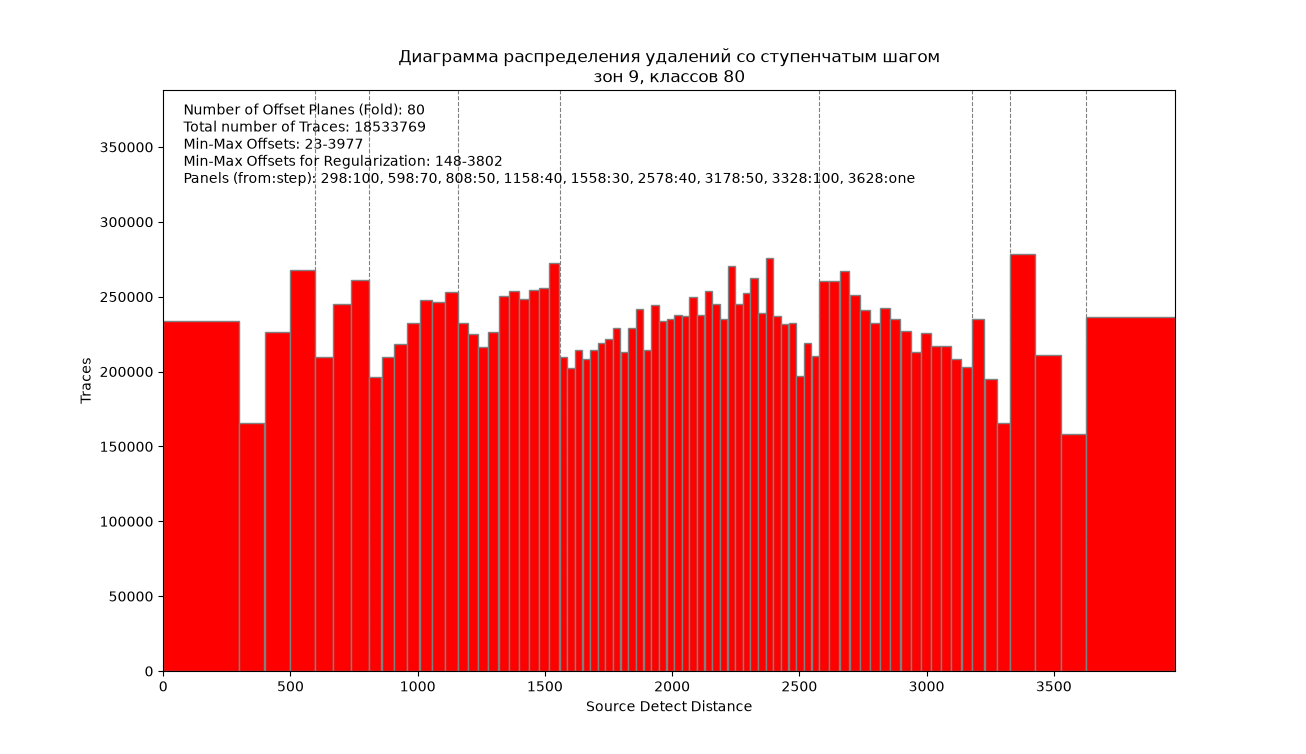
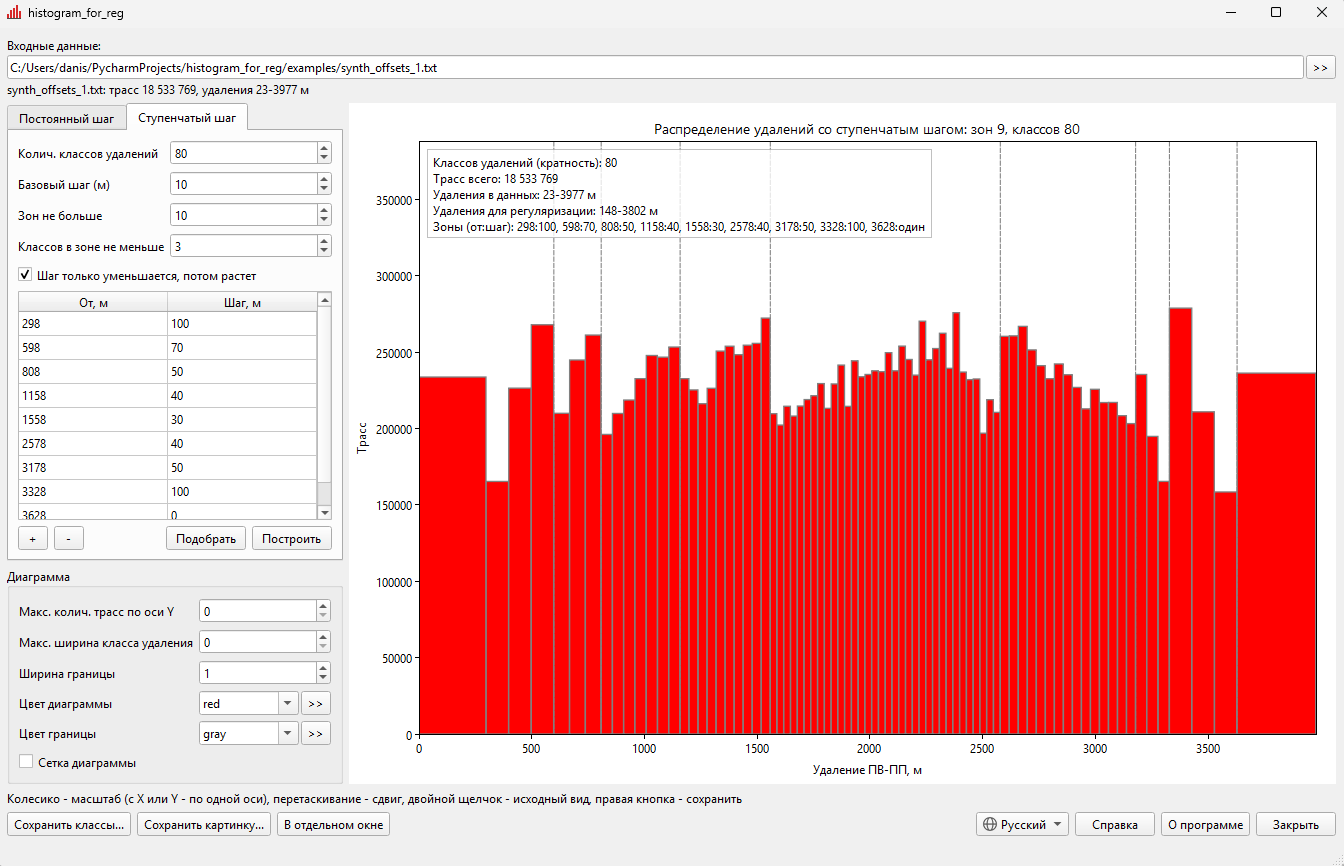
histogram_for_reg 1.8.0: новое окно, снимки, версия и история

diff --git a/docs/histogram_for_reg.en.md b/docs/histogram_for_reg.en.md
@@ -6,7 +6,7 @@ The utility builds an offset distribution histogram and is meant for planning 3D
 regularization of seismic data.
 
 The program splits offsets into classes, shows them as a histogram and saves a
-table of classes next to the input file. The table can be used as input for 3D
+table of classes. The table can be used as input for 3D
 regularization.
 
 Offset classes are built in one of two ways:
@@ -31,7 +31,7 @@ CentOS 7, RHEL, Rocky and Alma 8 and 9, Ubuntu 22.04, Debian 12, Astra Linux -
 there is the "Linux (older systems)" build: it is built with Qt5 and runs on any
 system with glibc 2.17 or newer ([details](index.md#run)).
 
-The current version is 1.7.0. To try the program, you can download synthetic
+The current version is 1.8.0. To try the program, you can download synthetic
 offset distributions: [synth_offsets_1.txt](examples/synth_offsets_1.txt) (the
 illustrations below are made from it) and
 [synth_offsets_2.txt](examples/synth_offsets_2.txt).
@@ -59,8 +59,6 @@ All classes have the same width. Near offsets can be merged into a first class
 several steps wide, and far offsets - into a last class starting from a given
 offset.
 
-![Constant step](img/histogram_const_en.png)
-
 ## Step by panels
 
 Offsets are split into panels: the step is constant within a panel and changes
@@ -75,8 +73,8 @@ every class has its own width.
 Fitting parameters:
 
 - **Number of offset classes** - how many classes the histogram will have. If the
-  other parameters allow it, you get exactly that many; otherwise the program
-  warns you and takes the nearest possible number.
+  other parameters allow it, you get exactly that many; otherwise the nearest
+  possible number is taken, and a line on the histogram says so.
 - **Base step** - panel steps are fitted as multiples of it. The smaller it is,
   the closer the classes are to equal population, but the longer the fitting
   takes.
@@ -87,16 +85,22 @@ Fitting parameters:
   step to swing: at a dip in the distribution it puts a narrow panel with a large
   step among the small ones.
 
-The "Fit" button fills the panel table "from offset - step" from the data: panels
-are found by exhaustive search so that the number of traces in each class deviates
-from the target as little as possible. The table can be edited by hand and the
-histogram built again.
+The "Fit" button fills the panel table "from offset - step" from the data and
+builds the histogram by it at once: panels are found by exhaustive search so that
+the number of traces in each class deviates from the target as little as
+possible. Fitting runs in the background, the window stays free. The table can be
+edited by hand and the histogram built again.
 
 ## Output
 
-The program opens a window with the histogram - it can be zoomed with the mouse
-wheel and saved as a PNG, JPG, PDF or SVG image with the right button - and writes a text file next to the input one: `<name>_<step>.txt` for a
-constant step and `<name>_step<classes>.txt` for a step by panels. The file has
+The histogram appears on the right, in the same window: it can be zoomed with the
+mouse wheel and saved as a PNG, JPG, PDF or SVG image with the "Save image..."
+button or the right button. The "Separate window" button opens a copy of the
+histogram to compare splits with different parameters.
+
+The "Save classes..." button writes a text file, by default next to the input one:
+`<name>_<step>.txt` for a constant step and `<name>_step<classes>.txt` for a step
+by panels. The file has
 four columns: the first offset of the class, the last offset, the class center and
 the number of traces.
 
@@ -112,6 +116,7 @@ The window size and the values of all fields are remembered between runs.
 
 | Version | What's new |
 |---|---|
+| 1.8.0 | The histogram is in the main window, the modes are tabs; the table of classes and the image are saved with buttons, the histogram can be opened in a separate window for comparison; panel fitting runs in the background, the histogram labels follow the window language |
 | 1.7.0 | The histogram is drawn without matplotlib: the program file is almost half the size and the histogram is faster; the class under the cursor is highlighted, the image is saved to PNG, JPG, PDF and SVG, the color is picked with the ">>" button |
 | 1.6.0 | Step by panels without swinging: the panel step only decreases and then only increases (a checkbox in the window, on by default) |
 | 1.5.0 | Chinese interface (Simplified): the language follows the system and can be switched in the window, in Chinese the histogram labels too |
